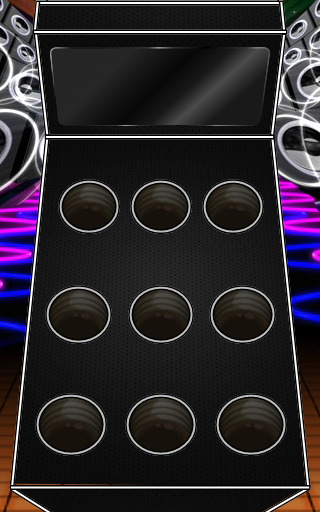
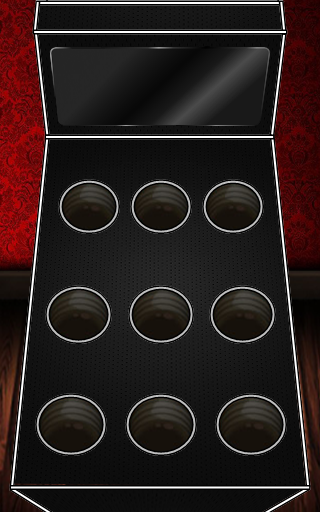
- Fixed bg bugs

Changed region(s): [[0.8438, 0.0, 1.0, 1.0], [0.0, 0.0, 0.1562, 1.0]]

diff --git a/trunk/Whack-A-Foe/src/com/bulalo/ShopWorld/ShopRenderer.java b/trunk/Whack-A-Foe/src/com/bulalo/ShopWorld/ShopRenderer.java
@@ -105,7 +105,7 @@ public class ShopRenderer {
 				AssetLoader.ticket.getRegionHeight() / 2);
 		
 		String ticketZeros = (AssetLoader.getTicket() < 10)?"00":(AssetLoader.getTicket() >= 10 && AssetLoader.getTicket() < 100)?"0":"";
-		AssetLoader.bitGoldSh.draw(batcher, ticketZeros + AssetLoader.getTicket(), (AssetLoader.ticket.getRegionWidth() / 8) + 5, (AssetLoader.ticket.getRegionHeight() / 8) + 224);
+		AssetLoader.bitGoldSh.draw(batcher, ticketZeros + AssetLoader.getTicket(), (AssetLoader.ticket.getRegionWidth() / 8) + 5, (AssetLoader.ticket.getRegionHeight() / 8) + 226);
 		AssetLoader.bitGold.draw(batcher, ticketZeros + AssetLoader.getTicket(), (AssetLoader.ticket.getRegionWidth() / 8) + 6, (AssetLoader.ticket.getRegionHeight() / 8) + 225);
 
 	}

diff --git a/trunk/Whack-A-Foe/src/com/bulalo/Helpers/AssetLoader.java b/trunk/Whack-A-Foe/src/com/bulalo/Helpers/AssetLoader.java
@@ -271,7 +271,7 @@ public class AssetLoader {
 		
 		// CustomizeScreen Textures ============================================================================
 		csBg = new TextureRegion(cSTexture, 0, 0, 320, 512);
-		wood = new TextureRegion(woodTexture, 0, 0, 512, 512);
+		wood = new TextureRegion(woodTexture, 0, 0, 320, 512);
 		steel = new TextureRegion(steelTexture, 0, 0, 320, 512);
 		carbon = new TextureRegion(carbonTexture, 0, 0, 320, 512);
 		
